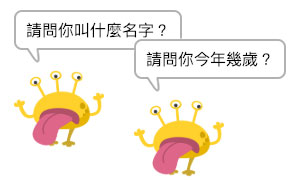
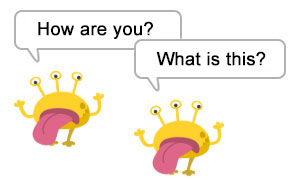
translate images

Changed region(s): [[0.09, 0.1111, 0.57, 0.2222], [0.48, 0.2778, 0.9, 0.3889]]

diff --git a/blockly/msg/en.js b/blockly/msg/en.js
@@ -206,236 +206,236 @@ var MSG = {
   },
   webbitSampleTitleH2: "Choose sample",
   webbitSampleTitleH3: {
-    s0: "基礎操作",
-    s1: "進階控制",
-    bits: "Webduino Bit 物聯網入門",
-    bita: "Webduino Bit 物聯網進階"
+    s0: "Basic control",
+    s1: "Advanced control",
+    bits: "Getting started with Web:Bit",
+    bita: "Web:Bit Advanced"
   },
   webbitSample: {
     s0: {
       s01: {
-        text: "小怪獸講話",
+        text: "Talking",
         img: "samples/en/s0-01.jpg",
         json: "samples/en/s0-01.json"
       },
       s02: {
-        text: "點擊小怪獸就會放大",
+        text: "Click and zoom in",
         img: "samples/en/s0-02.jpg",
         json: "samples/en/s0-02.json"
       },
       s03: {
-        text: "鍵盤控制小怪獸",
+        text: "Control with the keyboard",
         img: "samples/en/s0-03.jpg",
         json: "samples/en/s0-03.json"
       },
       s04: {
-        text: "小怪獸自動旋轉",
+        text: "Rotate automatically",
         img: "samples/en/s0-04.jpg",
         json: "samples/en/s0-04.json"
       },
       s05: {
-        text: "小怪獸移動時碰到邊緣反彈",
+        text: "Bounce on the edge when moving",
         img: "samples/en/s0-05.jpg",
         json: "samples/en/s0-05.json"
       },
       s06: {
-        text: "小怪獸報時 ( 小時鐘 )",
+        text: "Clock",
         img: "samples/en/s0-06.jpg",
         json: "samples/en/s0-06.json"
       },
       s07: {
-        text: "小怪獸比賽數字大小",
+        text: "Bigger or smaller than",
         img: "samples/en/s0-07.jpg",
         json: "samples/en/s0-07.json"
       },
       s08: {
-        text: "小怪獸講出隨機話語",
+        text: "Speak random words",
         img: "samples/en/s0-08.jpg",
         json: "samples/en/s0-08.json"
       },
       s09: {
-        text: "小怪獸上下移動",
+        text: "Moving up and down",
         img: "samples/en/s0-09.jpg",
         json: "samples/en/s0-09.json"
       },
       s10: {
-        text: "點擊小怪獸講話發聲",
+        text: "Click the monster to speak",
         img: "samples/en/s0-10.jpg",
         json: "samples/en/s0-10.json"
       },
       s11: {
-        text: "小怪獸跟著滑鼠移動並旋轉",
+        text: "Follow mouse-pointer to move and rotate",
         img: "samples/en/s0-11.jpg",
         json: "samples/en/s0-11.json"
       },
       s12: {
-        text: "點擊小怪獸發出各種音效",
+        text: "Click the monster to make a sound effect",
         img: "samples/en/s0-12.jpg",
         json: "samples/en/s0-12.json"
       }
     },
     s1: {
       s01: {
-        text: "小怪獸邊移動邊旋轉",
+        text: "Rotate while moving",
         img: "samples/en/s1-01.jpg",
         json: "samples/en/s1-01.json"
       },
       s02: {
-        text: "小怪獸自動依序改變尺寸",
+        text: "Change size in order",
         img: "samples/en/s1-02.jpg",
         json: "samples/en/s1-02.json"
       },
       s03: {
-        text: "聲控改變小怪獸尺寸",
+        text: "Voice changes monster size",
         img: "samples/en/s1-03.jpg",
         json: "samples/en/s1-03.json"
       },
       s04: {
-        text: "樂透電腦自動選號",
+        text: "Big Lottery",
         img: "samples/en/s1-04.jpg",
         json: "samples/en/s1-04.json"
       },
       s05: {
-        text: "小怪獸依序講話",
+        text: "Monsters speak in order",
         img: "samples/en/s1-05.jpg",
         json: "samples/en/s1-05.json"
       },
       s06: {
-        text: "依序輸入文字讓小怪獸講話",
+        text: "Enter text in order for the monster to speak",
         img: "samples/en/s1-06.jpg",
         json: "samples/en/s1-06.json"
       },
       s07: {
-        text: "輸入文字指定小怪獸講話",
+        text: "Enter text to specify a monster to speak",
         img: "samples/en/s1-07.jpg",
         json: "samples/en/s1-07.json"
       },
       s08: {
-        text: "小怪獸連續問答",
+        text: "Continuous question and answer",
         img: "samples/en/s1-08.jpg",
         json: "samples/en/s1-08.json"
       },
       s09: {
-        text: "小怪獸學九九乘法",
+        text: "Ninety-nine multiplication",
         img: "samples/en/s1-09.jpg",
         json: "samples/en/s1-09.json"
       },
       s10: {
-        text: "小怪獸語音朗讀逐字稿",
+        text: "Verbatim voice",
         img: "samples/en/s1-10.jpg",
         json: "samples/en/s1-10.json"
       },
       s11: {
-        text: "鍵盤操控小怪獸，碰到其他小怪獸就說話",
+        text: "Keyboard-controlled monsters,Talk if you touch other little monsters",
         img: "samples/en/s1-11.jpg",
         json: "samples/en/s1-11.json"
       },
       s12: {
-        text: "小怪獸描述舞台尺寸，改變高度時改變顏色",
+        text: "Describe the size of the stage, change color when changing height",
         img: "samples/en/s1-12.jpg",
         json: "samples/en/s1-12.json"
       }
     },
     bits: {
       s01: {
-        text: "矩陣 LED 顯示圖形",
+        text: "Display graphics",
         img: "samples/en/bit-s-01.jpg",
         json: "samples/en/bit-s-01.json"
       },
       s02: {
-        text: "矩陣 LED 心跳動畫",
+        text: "Heartbeat animation",
         img: "samples/en/bit-s-02.jpg",
         json: "samples/en/bit-s-02.json"
       },
       s03: {
-        text: "按鈕開關切換剪刀、石頭、布",
+        text: "Button switch patterns",
         img: "samples/en/bit-s-03.jpg",
         json: "samples/en/bit-s-03.json"
       },
       s04: {
-        text: "按鈕開關控制小怪獸尺寸",
+        text: "Button controls monster size",
         img: "samples/en/bit-s-04.jpg",
         json: "samples/en/bit-s-04.json"
       },
       s05: {
-        text: "點擊小怪獸切換圖案",
+        text: "Tap the monster to switch patterns",
         img: "samples/en/bit-s-05.jpg",
         json: "samples/en/bit-s-05.json"
       },
       s06: {
-        text: "按鈕開關控制小怪獸自動旋轉、停止旋轉",
+        text: "Button controls monster rotation",
         img: "samples/en/bit-s-06.jpg",
         json: "samples/en/bit-s-06.json"
       },
       s07: {
-        text: "小怪獸講出光度和溫度",
+        text: "Display lumens and temperature",
         img: "samples/en/bit-s-07.jpg",
         json: "samples/en/bit-s-07.json"
       },
       s08: {
-        text: "光度切換矩陣 LED 圖形",
+        text: "Lumen switching graphics",
         img: "samples/en/bit-s-08.jpg",
         json: "samples/en/bit-s-08.json"
       },
       s09: {
-        text: "蜂鳴器播放音樂",
+        text: "Buzzer playing music",
         img: "samples/en/bit-s-09.jpg",
         json: "samples/en/bit-s-09.json"
       },
       s10: {
-        text: "點擊不同小怪獸，播放不同音樂",
+        text: "Click on the monster to play music",
         img: "samples/en/bit-s-10.jpg",
         json: "samples/en/bit-s-10.json"
       },
       s11: {
-        text: "旋轉開發板切換圖案",
+        text: "Rotate the board to switch patterns",
         img: "samples/en/bit-s-11.jpg",
         json: "samples/en/bit-s-11.json"
       },
       s12: {
-        text: "電子骰子",
+        text: "Electronic dice",
         img: "samples/en/bit-s-12.jpg",
         json: "samples/en/bit-s-12.json"
       }
     },
     bita: {
       s01: {
-        text: "輸入文字控制燈號",
+        text: "Enter text control light",
         img: "samples/en/bit-a-01.jpg",
         json: "samples/en/bit-a-01.json"
       },
       s02: {
-        text: "燈號依序水平移動",
+        text: "Lights move horizontally in order",
         img: "samples/en/bit-a-02.jpg",
         json: "samples/en/bit-a-02.json"
       },
       s03: {
-        text: "燈號依序繞著周圍移動",
+        text: "Lights sequentially move around",
         img: "samples/en/bit-a-03.jpg",
         json: "samples/en/bit-a-03.json"
       },
       s04: {
-        text: "燈號水平反彈移動",
+        text: "Light bounces horizontally",
         img: "samples/en/bit-a-04.jpg",
         json: "samples/en/bit-a-04.json"
       },
       s05: {
-        text: "燈號反彈球效果",
+        text: "Light bounce ball effect",
         img: "samples/en/bit-a-05.jpg",
         json: "samples/en/bit-a-05.json"
       },
       s06: {
-        text: "鍵盤操控燈號移動",
+        text: "Keyboard control light movement",
         img: "samples/en/bit-a-06.jpg",
         json: "samples/en/bit-a-06.json"
       },
       s07: {
-        text: "轉動開發板控制燈號移動",
+        text: "Turn the board to control light movement",
         img: "samples/en/bit-a-07.jpg",
         json: "samples/en/bit-a-07.json"
       },
       s08: {
-        text: "加速度拳力偵測器",
+        text: "Force detection",
         img: "samples/en/bit-a-08.jpg",
         json: "samples/en/bit-a-08.json"
       },
